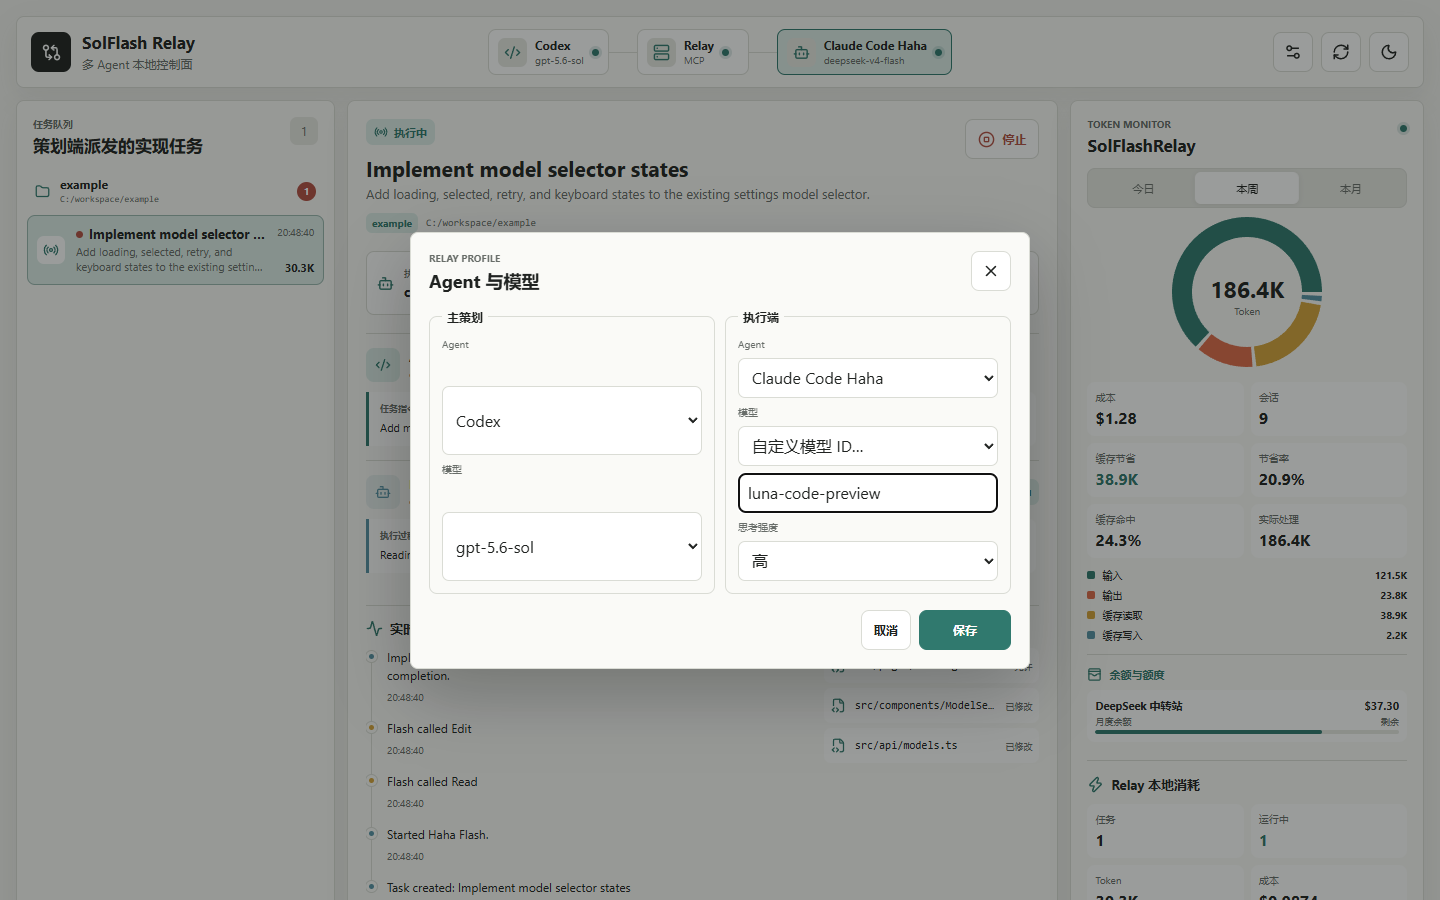
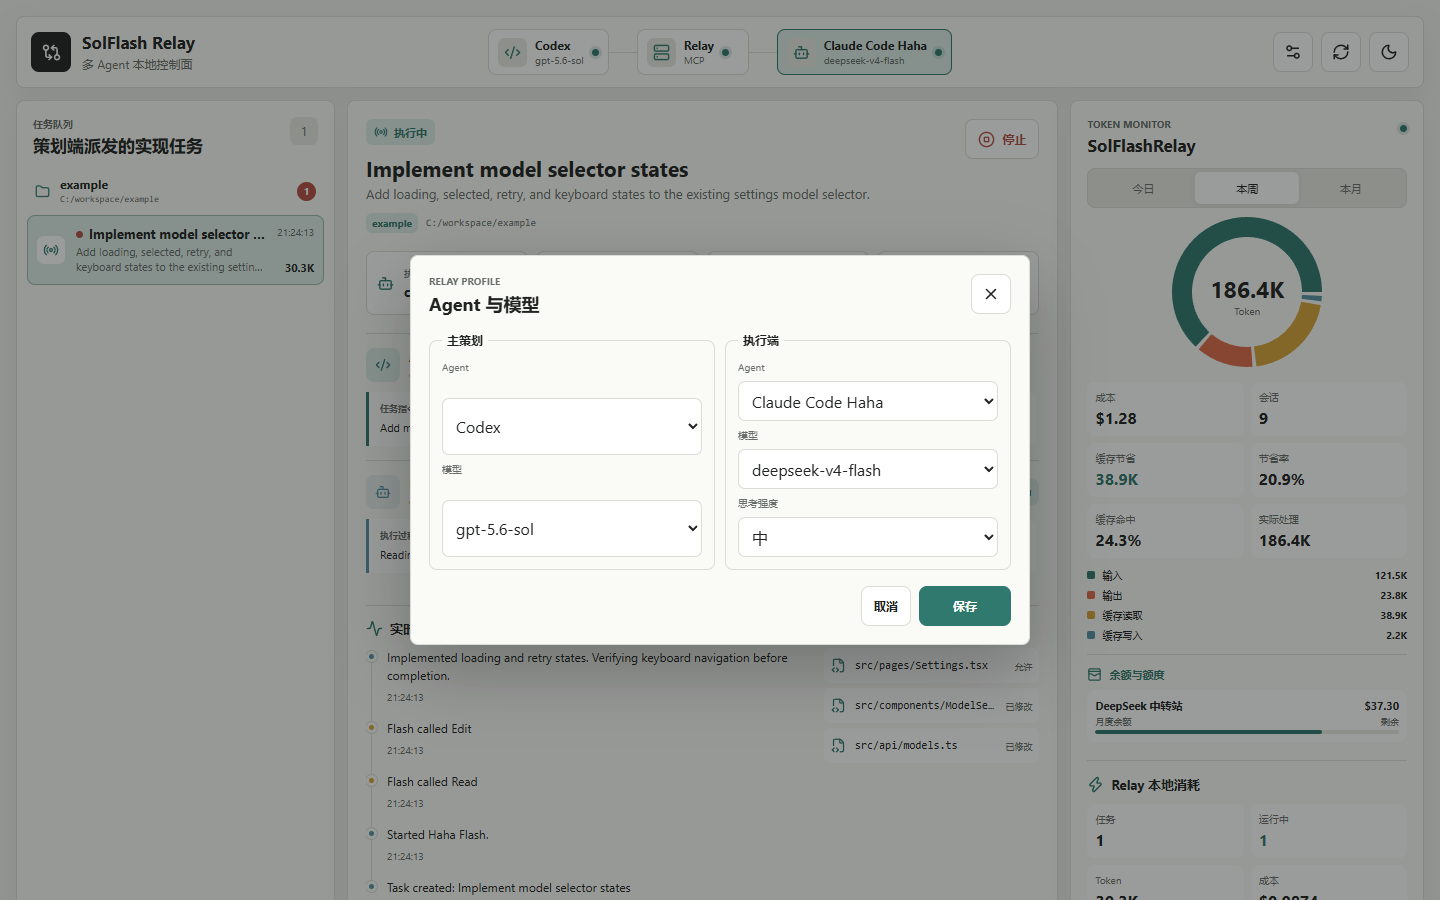
docs: add bilingual quick start tutorial

diff --git a/README.md b/README.md
@@ -76,6 +76,100 @@ flowchart LR
 
 关闭窗口只会隐藏到托盘。要彻底停止 Relay，请使用托盘菜单“退出”或设置页电源按钮。
 
+## 五分钟使用教程
+
+### 0. 使用前准备
+
+开始前确认以下三点：
+
+1. 已安装 Claude Code Haha，并在 Haha 内配置好 Provider / API。
+2. 在 Haha 中手动新建一次普通会话，确认目标模型可以正常回复。
+3. 下载的是 `SolFlash-Relay-0.5.0-x64-setup.exe`，不是 Portable 便携版。
+
+> **你截图中的错误代表正在使用 Portable。** Portable 可以运行面板和后台托管，但无法安装 Codex MCP。请先从托盘彻底退出 Portable，再安装并启动 Setup 版本。
+
+### 1. 安装并启动 Setup 版本
+
+从 [GitHub Releases](https://github.com/OPFIMISS/SolFlash-Relay-/releases/latest) 下载 `SolFlash-Relay-0.5.0-x64-setup.exe`，完成安装后启动 SolFlash Relay。
+
+看到顶部“Relay 后台托管已开启”说明本地服务已经运行。关闭窗口后它仍会留在 Windows 托盘中。
+
+### 2. 选择上级和下级 Agent
+
+点击右上角设置按钮，第一次使用建议这样配置：
+
+| 设置 | 推荐值 |
+| --- | --- |
+| 主策划 Agent | `Codex` |
+| 主策划模型 | `gpt-5.6-sol` |
+| 执行 Agent | `Claude Code Haha` |
+| 执行模型 | `deepseek-v4-flash` |
+| 思考强度 | `中` |
+
+![推荐的 Agent 与模型设置](docs/images/agent-settings.png)
+
+“最大”思考强度不是开启 Relay 的必要条件。小任务先使用“中”更省 Token，复杂任务再提高。保存后，顶部链路应显示 `Codex → Relay → Claude Code Haha`。
+
+### 3. 安装 Codex MCP
+
+1. 在设置窗口点击“安装 Codex MCP”。
+2. 等待出现安装成功提示。
+3. **彻底退出并重新启动 Codex**，只关闭当前项目页面可能不会重新加载 MCP。
+4. 保持 SolFlash Relay 在运行或托盘后台状态。
+
+安装只需要做一次。以后启动 Codex 时，MCP 会连接现有 Relay；Relay 未运行时，安装版也可以自动拉起后台宿主。
+
+### 4. 在 Codex 项目中派发第一个任务
+
+在 Codex 中打开你真正要修改的项目。Relay 会把这个项目的**绝对路径**交给 Haha，因此不要先在无关目录中创建任务。
+
+点击 Relay 顶部的“复制使用指令”，粘贴到 Codex，然后在后面写具体需求。也可以直接使用下面的示例：
+
+```text
+使用 SolFlash Relay 完成这个任务。
+
+你负责分析现有代码、决定架构和最终审查。请先明确允许修改的文件、约束和验收命令，
+然后优先调用 agent_run，把机械代码实现交给 Claude Code Haha 的 deepseek-v4-flash。
+必须使用当前 Codex 项目的绝对路径。Flash 完成后检查真实 Git diff 并运行测试。
+
+任务：给设置页面的保存按钮增加加载状态，避免连续重复提交。
+```
+
+正常情况下，Codex 会自动调用 Relay 的 `agent_run`。你不需要手动复制提示词到 Haha，也不需要在 Relay 面板中创建任务。
+
+### 5. 查看执行过程和结果
+
+任务开始后可以同时在两个地方观察：
+
+- **SolFlash Relay**：左侧按项目路径显示任务；中间上方是 A（Codex）的指令，下方是 B（Haha）的回复；右侧显示 Token、费用、缓存和余额。
+- **Claude Code Haha**：同一个项目路径下会出现 Relay 创建的可见会话，可以直接查看 Flash 的原生执行记录。
+
+任务完成或失败后，Windows 会发送系统通知，并在任务栏显示未读 `1`。点击通知会打开对应任务，聚焦 Relay 后清除未读。
+
+Relay 会分别显示：
+
+- 请求模型：例如 `deepseek-v4-flash`
+- 执行 CLI 接收的别名：例如 `haiku`
+- Provider 最终回报的有效模型：应为 `deepseek-v4-flash`
+
+只有收到非空最终回复时任务才会显示“已完成”。
+
+### 6. 审查和返工
+
+Flash 完成后，Sol 仍然负责最终质量。让 Codex 检查真实 diff、越界文件和测试结果。如果只需局部修正，可以在 Codex 中继续要求它调用 `flash_send`，或在 Relay 任务底部输入“策划端返工指令”。Relay 会恢复同一个 Haha 会话。
+
+### 第一次连接失败怎么办
+
+| 现象 | 处理方法 |
+| --- | --- |
+| 点击“安装 Codex MCP”提示便携版不支持 | 退出 Portable，安装并运行 Setup EXE |
+| Codex 中没有 Relay 工具或任务不出现 | 重新点击安装 MCP，然后彻底退出并重启 Codex |
+| Relay 显示旧设置或旧任务 | 从托盘退出所有旧版 Relay，只保留最新安装版 |
+| Haha 显示 Pro | 检查 Relay 任务里的“请求模型/实际模型”，不要只看当前选中的 Haha 会话 |
+| Haha 出现 `Unknown skill: usage` | 这是 Token Monitor 的 `/usage` 探测，不是 Relay 任务 |
+| Token Monitor 显示 `fetch failed` | 不影响任务执行；Token Monitor 是可选的只读统计组件 |
+| 想确认 Flash 链路 | 先完成一个任务，再点击“验证当前项目的 Flash”；该按钮会产生一次很小的真实调用 |
+
 ## 关于 Pro、Flash 与 `Unknown skill: usage`
 
 Haha 输入框底部显示的是**当前所选 Haha 会话**的模型。Relay 发起的任务会显式传递请求模型，并在任务详情中显示最终有效模型。
@@ -153,6 +247,29 @@ Download the recommended Setup build from [GitHub Releases](https://github.com/O
 - `SolFlash-Relay-0.5.0-x64-portable.exe`: portable dashboard and background host; MCP stdio installation requires the Setup build.
 
 Open Agent settings, select the planner/executor profiles and models, install Codex MCP, restart Codex, then paste the copied Relay instruction into the Codex project that should act as planner.
+
+### Five-minute quick start
+
+1. Configure Haha's provider/API first and verify that Haha can answer a normal message.
+2. Install `SolFlash-Relay-0.5.0-x64-setup.exe`. The Portable build cannot install Codex MCP; exit it from the tray before using Setup.
+3. In Relay settings, choose `Codex / gpt-5.6-sol` as planner and `Claude Code Haha / deepseek-v4-flash` as executor. Start with medium effort to reduce cost.
+4. Click **Install Codex MCP**, then fully quit and restart Codex.
+5. Open the real target project in Codex, click **Copy usage instruction** in Relay, and paste it before your implementation request.
+6. Codex should call `agent_run` automatically. Relay creates a visible Haha conversation under the same absolute project path and returns the final reply to Codex.
+7. Review the real Git diff and tests in Codex. Use `flash_send` or the Relay follow-up box only for a targeted correction in the same Haha session.
+
+Example Codex request:
+
+```text
+Use SolFlash Relay for this task. Inspect the repository and decide the architecture first.
+Define narrow allowed files, constraints, and acceptance commands, then call agent_run
+with this Codex project's absolute path and delegate the mechanical implementation to
+Claude Code Haha deepseek-v4-flash. Review the real Git diff and tests after it returns.
+
+Task: add a loading state to the settings save button to prevent duplicate submissions.
+```
+
+If Codex does not expose the Relay tools after installation, reinstall MCP and fully restart Codex. If Relay appears to show old settings, exit every older Relay instance from the Windows tray and keep only the latest Setup build running.
 
 ### Flash verification
 
